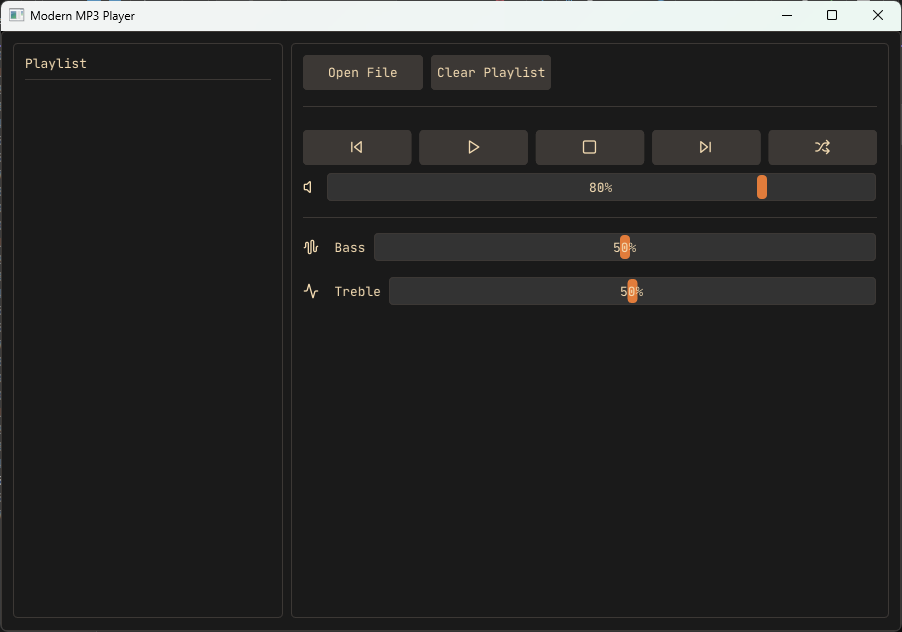
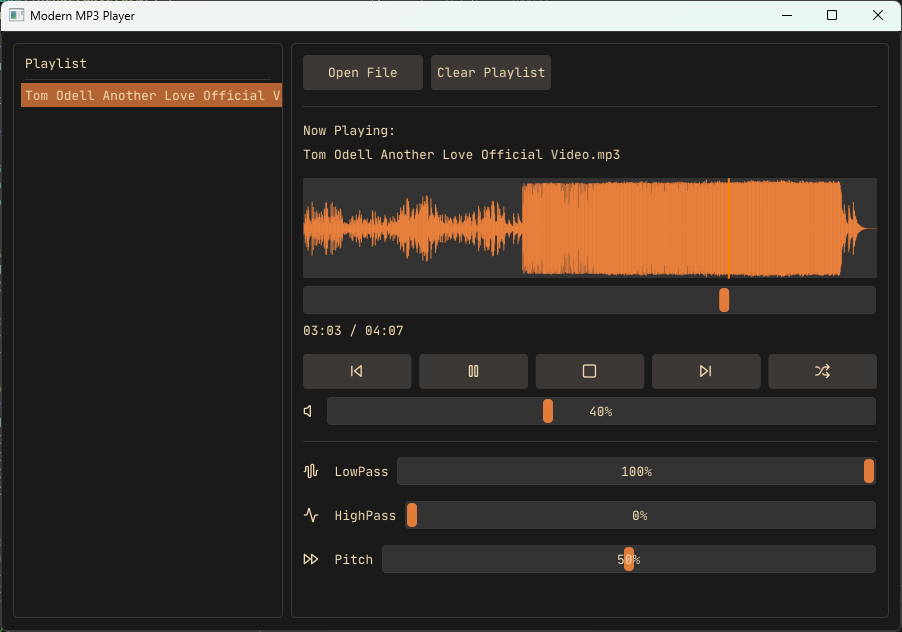
Correctly setup sound effects and added wave form graph.

Changed region(s): [[0.3104, 0.1804, 0.9933, 0.6915], [0.3415, 0.7215, 0.9933, 0.932], [0.0, 0.1203, 0.3104, 0.1804]]

diff --git a/Fly/src/MP3Player.cpp b/Fly/src/MP3Player.cpp
@@ -13,9 +13,11 @@ static LPALEFFECTF alEffectf;
 static LPALGENFILTERS alGenFilters;
 static LPALGENEFFECTS alGenEffects;
 static LPALGENAUXILIARYEFFECTSLOTS alGenAuxiliaryEffectSlots;
+static LPALAUXILIARYEFFECTSLOTI alAuxiliaryEffectSloti;
 
 MP3Player::MP3Player()
-    : isPlaying(false), volume(80.0f), bass(50.0f), treble(50.0f), currentTrackIndex(0), repeat(false), shuffle(false)
+    : isPlaying(false), volume(40.0f), bass(100.0f), treble(0.0f),
+    pitch(50.0f), currentTrackIndex(0), repeat(false), shuffle(false)
 {
     initializeOpenAL();
     setupFilters();
@@ -105,6 +107,12 @@ void MP3Player::initializeOpenAL()
         throw std::runtime_error("EFX not supported: Could not load alGenAuxiliaryEffectSlots");
     }
 
+    alAuxiliaryEffectSloti = (LPALAUXILIARYEFFECTSLOTI)alGetProcAddress("alAuxiliaryEffectSloti");
+    if (!alAuxiliaryEffectSloti)
+    {
+        throw std::runtime_error("EFX not supported: Could not load alAuxiliaryEffectSloti");
+    }
+
     // Generate source
     alGenSources(1, &source);
 
@@ -118,38 +126,49 @@ void MP3Player::initializeOpenAL()
 
 void MP3Player::setupFilters()
 {
-    // Generate effect slot
-    alGenAuxiliaryEffectSlots(1, &effectSlot);
-
-    // Create equalizer effect
-    alGenEffects(1, &equalizerEffect);
-    alEffecti(equalizerEffect, AL_EFFECT_TYPE, AL_EFFECT_EQUALIZER);
-
-    // Create filters
+    // Generate filters
     alGenFilters(1, &lowpassFilter);
     alGenFilters(1, &highpassFilter);
 
+    // Set filter types
     alFilteri(lowpassFilter, AL_FILTER_TYPE, AL_FILTER_LOWPASS);
     alFilteri(highpassFilter, AL_FILTER_TYPE, AL_FILTER_HIGHPASS);
 
+    // Create effect for pitch shifting
+    alGenEffects(1, &pitchEffect);
+    alEffecti(pitchEffect, AL_EFFECT_TYPE, AL_EFFECT_PITCH_SHIFTER);
+
+    // Create auxiliary effect slot for pitch
+    alGenAuxiliaryEffectSlots(1, effectSlots);
+    alAuxiliaryEffectSloti(effectSlots[0], AL_EFFECTSLOT_EFFECT, pitchEffect);
+
+    // Initial filter values
     updateFilters();
 }
 
 void MP3Player::updateFilters()
 {
-    // Update low-pass filter (bass)
-    float bassGain = bass / 50.0f; // Convert 0-100 range to 0-2 range
-    alFilterf(lowpassFilter, AL_LOWPASS_GAIN, bassGain);
-    alFilterf(lowpassFilter, AL_LOWPASS_GAINHF, 0.5f + (bass / 200.0f));
+    // Bass control (lowpass filter)
+    // Map bass value (0-100) to frequency range (50Hz - 2000Hz)
+    float bassFreq = 50.0f + (bass / 100.0f) * 1950.0f;
+    alFilterf(lowpassFilter, AL_LOWPASS_GAIN, 1.0f);
+    alFilterf(lowpassFilter, AL_LOWPASS_GAINHF, bass / 100.0f);
 
-    // Update high-pass filter (treble)
-    float trebleGain = treble / 50.0f;
-    alFilterf(highpassFilter, AL_HIGHPASS_GAIN, trebleGain);
-    alFilterf(highpassFilter, AL_HIGHPASS_GAINLF, 0.5f + (treble / 200.0f));
+    // Treble control (highpass filter)
+    // Map treble value (0-100) to frequency range (2000Hz - 20000Hz)
+    float trebleFreq = 2000.0f + (treble / 100.0f) * 18000.0f;
+    alFilterf(highpassFilter, AL_HIGHPASS_GAIN, 1.0f);
+    alFilterf(highpassFilter, AL_HIGHPASS_GAINLF, treble / 100.0f);
 
     // Apply filters to source
-    alSource3i(source, AL_AUXILIARY_SEND_FILTER, effectSlot, 0, AL_FILTER_NULL);
     alSourcei(source, AL_DIRECT_FILTER, lowpassFilter);
+    alSource3i(source, AL_AUXILIARY_SEND_FILTER, effectSlots[0], 0, highpassFilter);
+
+    // Update pitch directly on the source
+    // Map pitch from 0-100 to 0.75-1.25 range for more subtle pitch adjustment
+    // 50 maps to 1.0 (normal pitch)
+    float pitchValue = 1.0f + ((pitch - 50.0f) / 100.0f) * 0.5f;
+    alSourcef(source, AL_PITCH, pitchValue);
 }
 
 bool MP3Player::loadTrack(const std::string &filename)
@@ -234,19 +253,19 @@ void MP3Player::cleanupOpenAL()
     alDeleteBuffers(buffers.size(), buffers.data());
     alDeleteFilters(1, &lowpassFilter);
     alDeleteFilters(1, &highpassFilter);
-    alDeleteEffects(1, &equalizerEffect);
-    alDeleteAuxiliaryEffectSlots(1, &effectSlot);
+    alDeleteEffects(1, &pitchEffect);
+    alDeleteAuxiliaryEffectSlots(1, effectSlots);
 
     alcMakeContextCurrent(nullptr);
     alcDestroyContext(context);
     alcCloseDevice(device);
 }
 
-bool MP3Player::loadAudioFile(const std::string &filename)
+bool MP3Player::loadAudioFile(const std::string& filename)
 {
     // libsndfile we need to decode the audio file into raw PCM data
     SF_INFO sfinfo;
-    SNDFILE *file = sf_open(filename.c_str(), SFM_READ, &sfinfo);
+    SNDFILE* file = sf_open(filename.c_str(), SFM_READ, &sfinfo);
     if (!file)
     {
         return false;
@@ -263,6 +282,9 @@ bool MP3Player::loadAudioFile(const std::string &filename)
     }
     sf_close(file);
 
+    // Process data for waveform visualization
+    processWaveformData(allData, sfinfo.channels);
+
     // Convert to raw PCM data
     const int dataSize = allData.size() * sizeof(int16_t);
 
@@ -272,7 +294,8 @@ bool MP3Player::loadAudioFile(const std::string &filename)
     buffers.push_back(buffer);
 
     // Upload audio data to buffer
-    alBufferData(buffer, (sfinfo.channels == 1) ? AL_FORMAT_MONO16 : AL_FORMAT_STEREO16, allData.data(), dataSize, sfinfo.samplerate);
+    alBufferData(buffer, (sfinfo.channels == 1) ? AL_FORMAT_MONO16 : AL_FORMAT_STEREO16,
+        allData.data(), dataSize, sfinfo.samplerate);
 
     // Attach buffer to source
     alSourcei(source, AL_BUFFER, buffer);
@@ -453,4 +476,68 @@ void MP3Player::setFilePath(const char *path)
 {
     strncpy_s(filepath, path, sizeof(filepath) - 1);
     filepath[sizeof(filepath) - 1] = '\0';
+}
+
+void MP3Player::setPitch(float newPitch) {
+    pitch = newPitch;
+    updateFilters();
+}
+
+float MP3Player::getPitch() const {
+    return pitch;
+}
+
+void MP3Player::processWaveformData(const std::vector<int16_t>& pcmData, int channels) {
+    waveformData.clear();
+
+    if (pcmData.empty()) return;
+
+    const size_t visPoints = 1000;
+    waveformData.reserve(visPoints);
+
+    size_t samplesPerPoint = (pcmData.size() / channels) / visPoints;
+    if (samplesPerPoint < 1) samplesPerPoint = 1;
+
+    // Find the maximum amplitude for normalization
+    float maxAmplitude = 0.0f;
+    for (size_t i = 0; i < pcmData.size(); i++) {
+        float amplitude = std::abs(pcmData[i] / 32768.0f);
+        maxAmplitude = std::max(maxAmplitude, amplitude);
+    }
+
+    // If the audio is too quiet, set a minimum amplification
+    if (maxAmplitude < 0.01f) maxAmplitude = 0.01f;
+
+    // Process the PCM data
+    for (size_t i = 0; i < visPoints && (i * samplesPerPoint * channels) < pcmData.size(); i++) {
+        float minSample = 0.0f;
+        float maxSample = 0.0f;
+        bool first = true;
+
+        // Find min and max values in this segment
+        for (size_t j = 0; j < samplesPerPoint && ((i * samplesPerPoint + j) * channels) < pcmData.size(); j++) {
+            for (int ch = 0; ch < channels; ch++) {
+                size_t idx = (i * samplesPerPoint + j) * channels + ch;
+                if (idx < pcmData.size()) {
+                    float sample = pcmData[idx] / 32768.0f;  // Normalize to [-1, 1]
+                    if (first) {
+                        minSample = maxSample = sample;
+                        first = false;
+                    }
+                    else {
+                        minSample = std::min(minSample, sample);
+                        maxSample = std::max(maxSample, sample);
+                    }
+                }
+            }
+        }
+
+        // Store the amplitude (max-min range) normalized by the maximum amplitude
+        float amplitude = (maxSample - minSample) / maxAmplitude;
+        waveformData.push_back(amplitude);
+    }
+}
+
+std::vector<float> MP3Player::getWaveformData() const {
+    return waveformData;
 }

diff --git a/Fly/src/Window.cpp b/Fly/src/Window.cpp
@@ -185,6 +185,7 @@ void Window::RenderTrackInfo()
 		ImGui::TextWrapped("%s", filename.c_str());
 		ImGui::PopFont();
 
+		RenderWaveform();
 		RenderProgressBar();
 		RenderTimeDisplay();
 	}
@@ -287,9 +288,9 @@ void Window::RenderAudioFilters()
 	// Start a group for the filters
 	ImGui::BeginGroup();
 
-	// Bass Control
+	// LowPass Control (50Hz - 2000Hz)
 	ImGui::AlignTextToFramePadding();
-	ImGui::Text(ICON_LC_AUDIO_WAVEFORM "  Bass");
+	ImGui::Text(ICON_LC_AUDIO_WAVEFORM "  LowPass");
 	ImGui::SameLine(0, 8.0f);
 
 	float bass = m_mp3Player->getBass();
@@ -301,9 +302,9 @@ void Window::RenderAudioFilters()
 
 	ImGui::Spacing();
 
-	// Treble Control
+	// HighPass Control (2000Hz - 20000Hz)
 	ImGui::AlignTextToFramePadding();
-	ImGui::Text(ICON_LC_ACTIVITY "  Treble");
+	ImGui::Text(ICON_LC_ACTIVITY "  HighPass");
 	ImGui::SameLine(0, 8.0f);
 
 	float treble = m_mp3Player->getTreble();
@@ -313,5 +314,77 @@ void Window::RenderAudioFilters()
 		m_mp3Player->setTreble(treble);
 	}
 
+	// Pitch Control
+	ImGui::Spacing();
+	ImGui::AlignTextToFramePadding();
+	ImGui::Text(ICON_LC_FAST_FORWARD "  Pitch");
+	ImGui::SameLine(0, 8.0f);
+
+	float pitch = m_mp3Player->getPitch();
+	ImGui::SetNextItemWidth(-1);
+	if (ImGui::SliderFloat("##Pitch", &pitch, 0.0f, 100.0f, "%.0f%%"))
+	{
+		m_mp3Player->setPitch(pitch);
+	}
+
 	ImGui::EndGroup();
+}
+
+void Window::RenderWaveform() {
+	if (m_mp3Player->getCurrentTrack().empty()) return;
+
+	const auto& waveformData = m_mp3Player->getWaveformData();
+	if (waveformData.empty()) return;
+
+	ImGui::Spacing();
+
+	float height = 100.0f;
+
+	ImDrawList* drawList = ImGui::GetWindowDrawList();
+	ImVec2 pos = ImGui::GetCursorScreenPos();
+	ImVec2 size = ImGui::GetContentRegionAvail();
+	size.y = height;
+
+	// Background
+	drawList->AddRectFilled(pos, ImVec2(pos.x + size.x, pos.y + size.y),
+		ImGui::GetColorU32(ImGuiCol_FrameBg));
+
+	// Draw waveform
+	const ImVec4& waveColor = ImGui::GetStyle().Colors[ImGuiCol_SliderGrab];
+	const float lineThickness = 1.0f;
+
+	// Center line
+	float centerY = pos.y + (size.y * 0.5f);
+	drawList->AddLine(
+		ImVec2(pos.x, centerY),
+		ImVec2(pos.x + size.x, centerY),
+		ImGui::GetColorU32(ImVec4(waveColor.x, waveColor.y, waveColor.z, 0.3f)), // Faded center line
+		1.0f
+	);
+
+	// Draw waveform as mirrored amplitude
+	for (size_t i = 0; i < waveformData.size(); i++) {
+		float x = pos.x + (size.x * i) / waveformData.size();
+		float amplitude = waveformData[i] * size.y * 0.25f; // Scale factor for visualization
+
+		// Draw vertical line for this sample
+		drawList->AddLine(
+			ImVec2(x, centerY - amplitude),
+			ImVec2(x, centerY + amplitude),
+			ImGui::GetColorU32(waveColor),
+			lineThickness
+		);
+	}
+
+	// Add playback position indicator
+	float playbackPos = m_mp3Player->getCurrentTime() / m_mp3Player->getDuration();
+	float posX = pos.x + (size.x * playbackPos);
+	drawList->AddLine(
+		ImVec2(posX, pos.y),
+		ImVec2(posX, pos.y + size.y),
+		ImGui::GetColorU32(ImVec4(1.0f, 0.5f, 0.0f, 1.0f)),  // Orange line
+		2.0f
+	);
+
+	ImGui::Dummy(size);
 }

diff --git a/Fly/src/MP3Player.h b/Fly/src/MP3Player.h
@@ -14,7 +14,7 @@ private:
     ALCcontext *context;
     ALuint source;
     ALuint buffer;
-    std::vector<ALuint> buffers; // For streaming implementation
+    std::vector<ALuint> buffers;
 
     bool isPlaying;
     float volume;
@@ -29,18 +29,21 @@ private:
     bool repeat;
     bool shuffle;
 
-    // OpenAL Effect objects
-    ALuint effectSlot;
-    ALuint equalizerEffect;
     ALuint lowpassFilter;  // For bass control
     ALuint highpassFilter; // For treble control
+    ALuint pitchEffect;    // For pitch shifting
+    float pitch;
 
     void initializeOpenAL();
     void cleanupOpenAL();
     void setupFilters();
-    bool loadAudioFile(const std::string &filename);
     void updateFilters();
+    bool loadAudioFile(const std::string &filename);
 
+    ALuint effectSlots[2];
+    ALuint effects[2];
+
+    std::vector<float> waveformData;
 public:
     MP3Player();
     ~MP3Player();
@@ -78,4 +81,10 @@ public:
     const std::vector<std::string> &getPlaylist() const;
     const char *getFilePath() const;
     void setFilePath(const char *path);
+    
+    void setPitch(float newPitch);
+    float getPitch() const;
+
+    std::vector<float> getWaveformData() const;
+    void processWaveformData(const std::vector<int16_t>& pcmData, int channels);
 };

diff --git a/Fly/src/Window.h b/Fly/src/Window.h
@@ -31,6 +31,7 @@ private:
 	void RenderPlaybackControls();
 	void RenderVolumeControl();
 	void RenderAudioFilters();
+	void RenderWaveform();
 
 	std::string FormatTime(float seconds);
 
